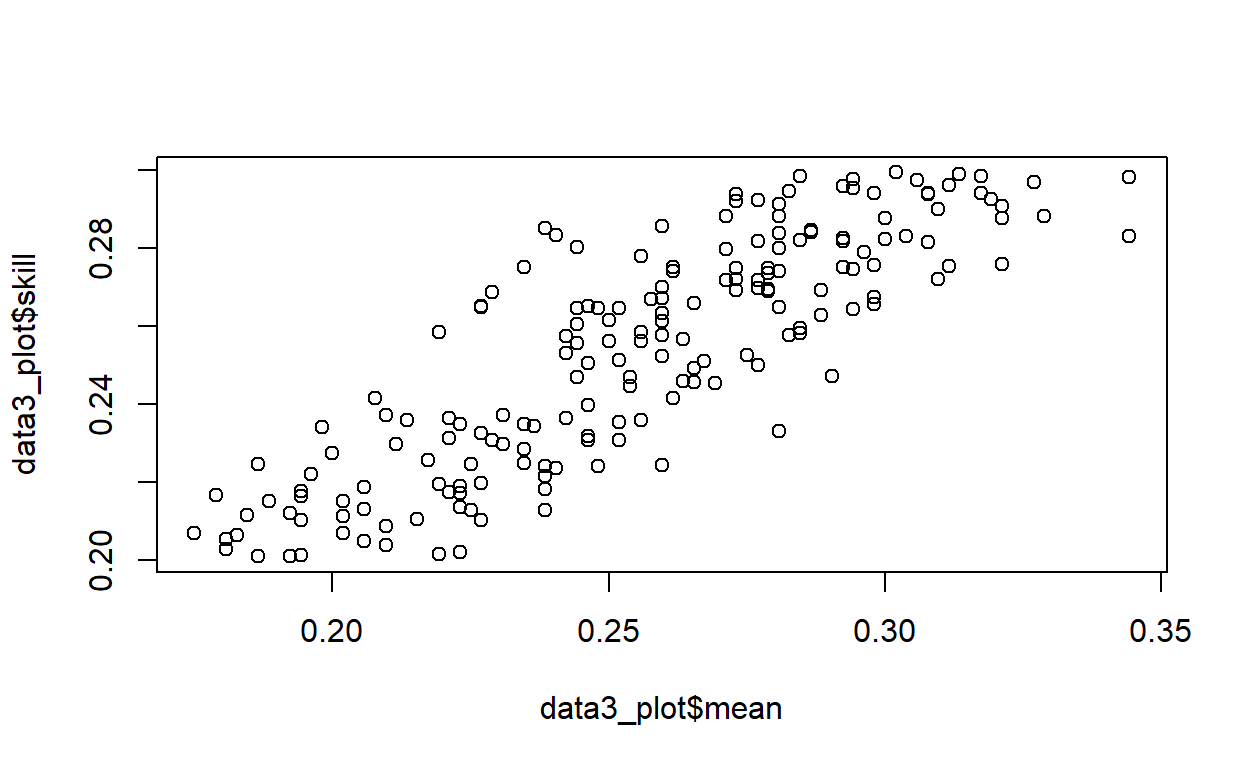
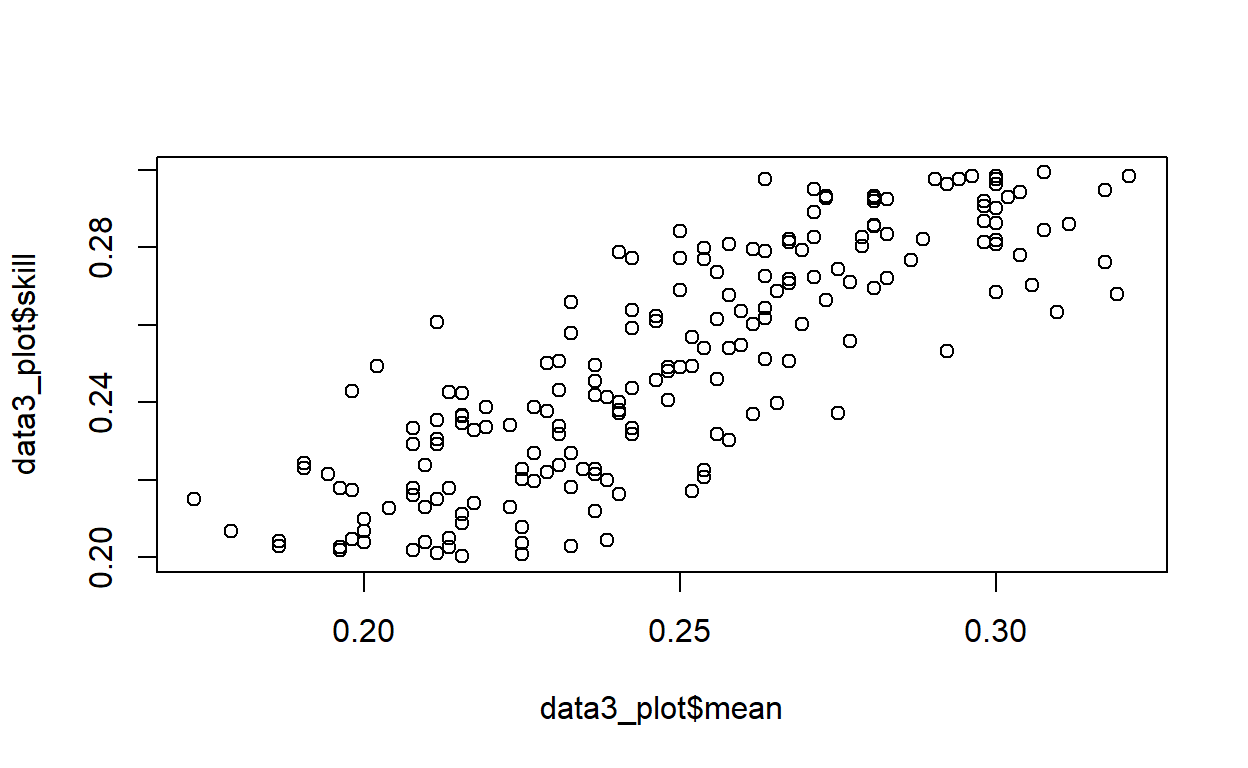
baseball

diff --git a/_posts/2023-02-05-baseball/baseball.html b/_posts/2023-02-05-baseball/baseball.html
@@ -92,8 +92,8 @@ code span.wa { color: #5e5e5e; font-style: italic; } /* Warning */
 
 
   <!--  https://schema.org/Article -->
-  <meta property="article:published" itemprop="datePublished" content="2023-02-05"/>
-  <meta property="article:created" itemprop="dateCreated" content="2023-02-05"/>
+  <meta property="article:published" itemprop="datePublished" content="2023-08-02"/>
+  <meta property="article:created" itemprop="dateCreated" content="2023-08-02"/>
   <meta name="article:author" content="Szymon Mąka"/>
 
   <!--  https://developers.facebook.com/docs/sharing/webmasters#markup -->
@@ -114,7 +114,7 @@ code span.wa { color: #5e5e5e; font-style: italic; } /* Warning */
   <!--radix_placeholder_rmarkdown_metadata-->
 
   <script type="text/json" id="radix-rmarkdown-metadata">
-  {"type":"list","attributes":{"names":{"type":"character","attributes":{},"value":["title","description","preview","author","date","output","bibliography","categories","csl"]}},"value":[{"type":"character","attributes":{},"value":["Dlaczego średnia uderzeń graczy nie przewiduje sukcesu w pojedyńczym uderzeniu?"]},{"type":"character","attributes":{},"value":["O psychologach i małych efektach\n"]},{"type":"character","attributes":{},"value":["Statystyczne_Dygresje.jpg"]},{"type":"list","attributes":{},"value":[{"type":"list","attributes":{"names":{"type":"character","attributes":{},"value":["name","url"]}},"value":[{"type":"character","attributes":{},"value":["Szymon Mąka"]},{"type":"list","attributes":{"names":{"type":"character","attributes":{},"value":["https://revan-tech.github.io/kontakt.html"]}},"value":[{"type":"NULL"}]}]}]},{"type":"character","attributes":{},"value":["02-05-2023"]},{"type":"list","attributes":{"names":{"type":"character","attributes":{},"value":["distill::distill_article"]}},"value":[{"type":"list","attributes":{"names":{"type":"character","attributes":{},"value":["self_contained","toc","includes","css"]}},"value":[{"type":"logical","attributes":{},"value":[false]},{"type":"logical","attributes":{},"value":[true]},{"type":"list","attributes":{"names":{"type":"character","attributes":{},"value":["in_header"]}},"value":[{"type":"character","attributes":{},"value":["hero-image.html"]}]},{"type":"character","attributes":{},"value":["theme.css"]}]}]},{"type":"character","attributes":{},"value":["bib.bib"]},{"type":"character","attributes":{},"value":["Statystyczne Dygresje"]},{"type":"character","attributes":{},"value":["apa.csl"]}]}
+  {"type":"list","attributes":{"names":{"type":"character","attributes":{},"value":["title","description","preview","author","date","output","bibliography","categories","csl"]}},"value":[{"type":"character","attributes":{},"value":["Dlaczego średnia uderzeń graczy nie przewiduje sukcesu w pojedyńczym uderzeniu?"]},{"type":"character","attributes":{},"value":["O psychologach i małych efektach\n"]},{"type":"character","attributes":{},"value":["Statystyczne_Dygresje.jpg"]},{"type":"list","attributes":{},"value":[{"type":"list","attributes":{"names":{"type":"character","attributes":{},"value":["name","url"]}},"value":[{"type":"character","attributes":{},"value":["Szymon Mąka"]},{"type":"list","attributes":{"names":{"type":"character","attributes":{},"value":["https://revan-tech.github.io/kontakt.html"]}},"value":[{"type":"NULL"}]}]}]},{"type":"character","attributes":{},"value":["08-02-2023"]},{"type":"list","attributes":{"names":{"type":"character","attributes":{},"value":["distill::distill_article"]}},"value":[{"type":"list","attributes":{"names":{"type":"character","attributes":{},"value":["self_contained","toc","includes","css"]}},"value":[{"type":"logical","attributes":{},"value":[false]},{"type":"logical","attributes":{},"value":[true]},{"type":"list","attributes":{"names":{"type":"character","attributes":{},"value":["in_header"]}},"value":[{"type":"character","attributes":{},"value":["hero-image.html"]}]},{"type":"character","attributes":{},"value":["theme.css"]}]}]},{"type":"character","attributes":{},"value":["bib.bib"]},{"type":"character","attributes":{},"value":["Statystyczne Dygresje"]},{"type":"character","attributes":{},"value":["apa.csl"]}]}
   </script>
   <!--/radix_placeholder_rmarkdown_metadata-->
   
@@ -1462,7 +1462,7 @@ code span.wa { color: #5e5e5e; font-style: italic; } /* Warning */
 <!--radix_placeholder_front_matter-->
 
 <script id="distill-front-matter" type="text/json">
-{"title":"Dlaczego średnia uderzeń graczy nie przewiduje sukcesu w pojedyńczym uderzeniu?","description":"O psychologach i małych efektach","authors":[{"author":"Szymon Mąka","authorURL":{"https://revan-tech.github.io/kontakt.html":{}},"affiliation":"&nbsp;","affiliationURL":"#","orcidID":""}],"publishedDate":"2023-02-05T00:00:00.000+01:00","citationText":"Mąka, 2023"}
+{"title":"Dlaczego średnia uderzeń graczy nie przewiduje sukcesu w pojedyńczym uderzeniu?","description":"O psychologach i małych efektach","authors":[{"author":"Szymon Mąka","authorURL":{"https://revan-tech.github.io/kontakt.html":{}},"affiliation":"&nbsp;","affiliationURL":"#","orcidID":""}],"publishedDate":"2023-08-02T00:00:00.000+02:00","citationText":"Mąka, 2023"}
 </script>
 
 <!--/radix_placeholder_front_matter-->
@@ -1484,7 +1484,7 @@ code span.wa { color: #5e5e5e; font-style: italic; } /* Warning */
 <div class="d-byline">
   Szymon Mąka true 
   
-<br/>02-05-2023
+<br/>08-02-2023
 </div>
 
 <div class="d-article">
@@ -1530,7 +1530,7 @@ code span.wa { color: #5e5e5e; font-style: italic; } /* Warning */
 <pre class="sourceCode r"><code class="sourceCode r"><span><span class='fu'><a href='https://rdrr.io/r/base/cat.html'>cat</a></span><span class='op'>(</span> <span class='fu'><a href='https://rdrr.io/r/base/paste.html'>paste</a></span><span class='op'>(</span><span class='st'>"Wariancja błędu wynosi"</span>,</span>
 <span><span class='fu'><a href='https://rdrr.io/r/base/Round.html'>round</a></span><span class='op'>(</span><span class='fu'><a href='https://rdrr.io/r/base/sum.html'>sum</a></span><span class='op'>(</span><span class='fu'><a href='https://rdrr.io/r/base/tapply.html'>tapply</a></span><span class='op'>(</span><span class='va'>data</span><span class='op'>$</span><span class='va'>X</span>, <span class='va'>data</span><span class='op'>$</span><span class='va'>Y</span>, <span class='va'>Var</span><span class='op'>)</span><span class='op'>*</span><span class='fu'><a href='https://rdrr.io/r/base/tapply.html'>tapply</a></span><span class='op'>(</span><span class='va'>data</span><span class='op'>$</span><span class='va'>X</span>, <span class='va'>data</span><span class='op'>$</span><span class='va'>Y</span>, <span class='va'>length</span><span class='op'>)</span><span class='op'>/</span><span class='fu'><a href='https://rdrr.io/r/base/length.html'>length</a></span><span class='op'>(</span><span class='va'>data</span><span class='op'>$</span><span class='va'>X</span><span class='op'>)</span><span class='op'>)</span>,<span class='fl'>3</span><span class='op'>)</span><span class='op'>)</span>,<span class='st'>"."</span>,sep <span class='op'>=</span> <span class='st'>""</span><span class='op'>)</span></span></code></pre>
 </div>
-<pre><code>Wariancja błędu wynosi 0.186.</code></pre>
+<pre><code>Wariancja błędu wynosi 0.187.</code></pre>
 <div class="sourceCode">
 <pre class="sourceCode r"><code class="sourceCode r"><span><span class='fu'><a href='https://rdrr.io/r/base/cat.html'>cat</a></span><span class='op'>(</span><span class='fu'><a href='https://rdrr.io/r/base/paste.html'>paste</a></span><span class='op'>(</span><span class='st'>"Wariancja przewidywania wynosi"</span>, <span class='fu'><a href='https://rdrr.io/r/base/Round.html'>round</a></span><span class='op'>(</span><span class='fu'>Var</span><span class='op'>(</span><span class='va'>data</span><span class='op'>$</span><span class='va'>X</span><span class='op'>)</span> </span>
 <span><span class='op'>-</span> <span class='fu'><a href='https://rdrr.io/r/base/sum.html'>sum</a></span><span class='op'>(</span><span class='fu'><a href='https://rdrr.io/r/base/tapply.html'>tapply</a></span><span class='op'>(</span><span class='va'>data</span><span class='op'>$</span><span class='va'>X</span>, <span class='va'>data</span><span class='op'>$</span><span class='va'>Y</span>, <span class='va'>Var</span><span class='op'>)</span><span class='op'>*</span><span class='fu'><a href='https://rdrr.io/r/base/tapply.html'>tapply</a></span><span class='op'>(</span><span class='va'>data</span><span class='op'>$</span><span class='va'>X</span>, <span class='va'>data</span><span class='op'>$</span><span class='va'>Y</span>, <span class='va'>length</span><span class='op'>)</span><span class='op'>/</span><span class='fu'><a href='https://rdrr.io/r/base/length.html'>length</a></span><span class='op'>(</span><span class='va'>data</span><span class='op'>$</span><span class='va'>X</span><span class='op'>)</span><span class='op'>)</span>,<span class='fl'>3</span><span class='op'>)</span>,<span class='st'>"."</span><span class='op'>)</span><span class='op'>)</span></span></code></pre>
@@ -1553,7 +1553,7 @@ code span.wa { color: #5e5e5e; font-style: italic; } /* Warning */
 <span><span class='op'>}</span></span>
 <span><span class='fu'><a href='https://rdrr.io/r/base/cat.html'>cat</a></span><span class='op'>(</span><span class='fu'><a href='https://rdrr.io/r/base/paste.html'>paste</a></span><span class='op'>(</span><span class='st'>"Korelacja wynosi "</span>, <span class='fu'><a href='https://rdrr.io/r/base/Round.html'>round</a></span><span class='op'>(</span><span class='fu'><a href='https://rdrr.io/r/stats/cor.html'>cor</a></span><span class='op'>(</span><span class='va'>data2</span><span class='op'>$</span><span class='va'>X</span>,<span class='va'>data2</span><span class='op'>$</span><span class='va'>Y</span><span class='op'>)</span>,<span class='fl'>3</span><span class='op'>)</span>,<span class='st'>"."</span>, sep <span class='op'>=</span> <span class='st'>""</span><span class='op'>)</span><span class='op'>)</span></span></code></pre>
 </div>
-<pre><code>Korelacja wynosi 0.42.</code></pre>
+<pre><code>Korelacja wynosi 0.421.</code></pre>
 <div class="sourceCode">
 <pre class="sourceCode r"><code class="sourceCode r"><span><span class='fu'><a href='https://rdrr.io/r/base/cat.html'>cat</a></span><span class='op'>(</span> <span class='fu'><a href='https://rdrr.io/r/base/paste.html'>paste</a></span><span class='op'>(</span><span class='st'>"Wariancja błędu wynosi"</span>,</span>
 <span><span class='fu'><a href='https://rdrr.io/r/base/Round.html'>round</a></span><span class='op'>(</span><span class='fu'><a href='https://rdrr.io/r/base/sum.html'>sum</a></span><span class='op'>(</span><span class='fu'><a href='https://rdrr.io/r/base/tapply.html'>tapply</a></span><span class='op'>(</span><span class='va'>data2</span><span class='op'>$</span><span class='va'>X</span>, <span class='va'>data2</span><span class='op'>$</span><span class='va'>Y</span>, <span class='va'>Var</span><span class='op'>)</span><span class='op'>*</span><span class='fu'><a href='https://rdrr.io/r/base/tapply.html'>tapply</a></span><span class='op'>(</span><span class='va'>data2</span><span class='op'>$</span><span class='va'>X</span>, <span class='va'>data2</span><span class='op'>$</span><span class='va'>Y</span>, <span class='va'>length</span><span class='op'>)</span><span class='op'>/</span><span class='fu'><a href='https://rdrr.io/r/base/length.html'>length</a></span><span class='op'>(</span><span class='va'>data2</span><span class='op'>$</span><span class='va'>X</span><span class='op'>)</span><span class='op'>)</span>,<span class='fl'>3</span><span class='op'>)</span><span class='op'>)</span>,<span class='st'>"."</span>,sep <span class='op'>=</span> <span class='st'>""</span><span class='op'>)</span></span></code></pre>
@@ -1582,8 +1582,8 @@ n\cdot \text{Var}(\mathbf{x}) &amp;= \sum_i (x_i - \bar{x})^2= \sum_i x_i^2 - 2x
 <p>więc</p>
 <p><span class="math display">\[\text{Var}(\mathbf{x}) \leq \bar{x}(c-\bar{x})\]</span></p>
 <p>średnia uderzeń graczy Abelsona</p>
-<p><span class="math display">\[eta^2 = \frac{Var(Y)}{Var(X)} \le \frac{0.7(0.1-0.7)}{0.1971} = 0.01065\]</span></p>
-<p>może w najlepszym wypadku wyjaśnić 1% wariancji. Widzimy ze wzoru, że zachowując wartość średniej sukcesów jako stałą, rozszerzanie przedziału, w którym znajdują się możliwe średnie graczy, będzie zwiększało procent możliwej do wyjaśnienia wariancji.</p>
+<p><span class="math display">\[eta^2 = \frac{Var(Y)}{Var(X)} \le \frac{0.07(0.1-0.07)}{0.1971} = 0.01065\]</span></p>
+<p>może w najlepszym wypadku wyjaśnić 1% wariancji. Widzimy ze wzoru, że rozszerzanie przedziału, w którym znajdują się możliwe średnie graczy, będzie zwiększało procent możliwej do wyjaśnienia wariancji.</p>
 <p>Wydaje mi się, że zdziwienie Abelsona wynikało z faktu, że spodziewał się, że procent wyjaśnionej wariancji w pojedyńczym sukcesie przez średnią gracza powinen być wysoki, ponieważ przewidujemy zachowanie na podstawie średniej miary tegoż zachowania, czyli jego średniej w dłuższym okresie (analgoicznie do neurotyzmu mającego przewidywać zachowania neurotyczne).</p>
 <p>Jednak Abelson licząc procent wyjasnionej wariancji zadał inne pytanie, mianowicie <strong>jak dobrze możemy przewidzieć sukces gracza w pojedyńczej próbie na podostawie jego średniej</strong>. Jak zauważyliśmy, nie będzie dobrze przewidywać, ponieważ zmienna Y nie różnicuje wystarczająco dobrze pomiędzy graczami względem wielkości błędu. Można to rozumieć w katagoriach niskiej rzetelności.</p>
 <p>To zjawisko generalizuje się na inne przykłady. Żeby sobie to zwizualizować zobaczmy średnie graczy w sezonie z symulacji pierwszej (średnia z 520 prób pojedyńczych odbić) naprzeciw prawdziwych średnich (prawdopodobieństw, których użyłem do wygenerowania danych, możemy je potraktować jako ich prawdziwą zdolność gry w bejsbol).</p>
@@ -1601,7 +1601,7 @@ Generalizuje się fakt, że im bardziej różne od siebie są średnie warunkowe
 <div class="sourceCode">
 <pre class="sourceCode r"><code class="sourceCode r"><span><span class='fu'><a href='https://rdrr.io/r/base/cat.html'>cat</a></span><span class='op'>(</span><span class='fu'><a href='https://rdrr.io/r/base/paste.html'>paste</a></span><span class='op'>(</span><span class='st'>"Korelacja wynosi "</span>, <span class='fu'><a href='https://rdrr.io/r/base/Round.html'>round</a></span><span class='op'>(</span><span class='fu'><a href='https://rdrr.io/r/stats/cor.html'>cor</a></span><span class='op'>(</span><span class='va'>data_plot</span><span class='op'>$</span><span class='va'>skill</span>,<span class='va'>data_plot</span><span class='op'>$</span><span class='va'>mean</span><span class='op'>)</span>,<span class='fl'>3</span><span class='op'>)</span>,<span class='st'>"."</span>, sep <span class='op'>=</span> <span class='st'>""</span><span class='op'>)</span><span class='op'>)</span></span></code></pre>
 </div>
-<pre><code>Korelacja wynosi 0.816.</code></pre>
+<pre><code>Korelacja wynosi 0.84.</code></pre>
 </div>
 <p>Teraz to samo z symulacją 2.</p>
 <div class="layout-chunk" data-layout="l-body">
@@ -1627,7 +1627,7 @@ Generalizuje się fakt, że im bardziej różne od siebie są średnie warunkowe
 <div class="sourceCode">
 <pre class="sourceCode r"><code class="sourceCode r"><span><span class='fu'><a href='https://rdrr.io/r/base/cat.html'>cat</a></span><span class='op'>(</span><span class='fu'><a href='https://rdrr.io/r/base/paste.html'>paste</a></span><span class='op'>(</span><span class='st'>"Korelacja wynosi "</span>, <span class='fu'><a href='https://rdrr.io/r/base/Round.html'>round</a></span><span class='op'>(</span><span class='fu'><a href='https://rdrr.io/r/stats/cor.html'>cor</a></span><span class='op'>(</span><span class='va'>data3_plot</span><span class='op'>$</span><span class='va'>skill</span>,<span class='va'>data3_plot</span><span class='op'>$</span><span class='va'>mean</span><span class='op'>)</span>,<span class='fl'>3</span><span class='op'>)</span>,<span class='st'>"."</span>, sep <span class='op'>=</span> <span class='st'>""</span><span class='op'>)</span><span class='op'>)</span></span></code></pre>
 </div>
-<pre><code>Korelacja wynosi 0.849.</code></pre>
+<pre><code>Korelacja wynosi 0.834.</code></pre>
 </div>
 <p>Widzimy, że ten wykres przypomina pierwszy wykres. Zawęziliśmy zakres zmiennej, więc błąd wydaje się relatywnie większy.</p>
 <p>Co natomiast możemy powiedzieć o małych wielkościach efektu w psychologii? Mały efekt, to po prostu mały efekt. Nie kumuluje się w czasie. Ale to nie znaczy, że jest nieistony. Jeśli badamy zachowanie człowieka, byłoby wręcz dziwnie, jeśli efekt jednej zmiennej byłby duży, zwłaszcza w przypadku złożonych zachowań.</p>

diff --git a/posts/2023-02-05-baseball/index.html b/posts/2023-02-05-baseball/index.html
@@ -92,8 +92,8 @@ code span.wa { color: #5e5e5e; font-style: italic; } /* Warning */
 
 
 <!--  https://schema.org/Article -->
-<meta property="article:published" itemprop="datePublished" content="2023-02-05"/>
-<meta property="article:created" itemprop="dateCreated" content="2023-02-05"/>
+<meta property="article:published" itemprop="datePublished" content="2023-08-02"/>
+<meta property="article:created" itemprop="dateCreated" content="2023-08-02"/>
 <meta name="article:author" content="Szymon Mąka"/>
 
 <!--  https://developers.facebook.com/docs/sharing/webmasters#markup -->
@@ -115,7 +115,7 @@ code span.wa { color: #5e5e5e; font-style: italic; } /* Warning */
   <!--radix_placeholder_rmarkdown_metadata-->
 
 <script type="text/json" id="radix-rmarkdown-metadata">
-{"type":"list","attributes":{"names":{"type":"character","attributes":{},"value":["title","description","preview","author","date","output","bibliography","categories","csl"]}},"value":[{"type":"character","attributes":{},"value":["Dlaczego średnia uderzeń graczy nie przewiduje sukcesu w pojedyńczym uderzeniu?"]},{"type":"character","attributes":{},"value":["O psychologach i małych efektach"]},{"type":"character","attributes":{},"value":["Statystyczne_Dygresje.jpg"]},{"type":"list","attributes":{},"value":[{"type":"list","attributes":{"names":{"type":"character","attributes":{},"value":["name","url"]}},"value":[{"type":"character","attributes":{},"value":["Szymon Mąka"]},{"type":"list","attributes":{"names":{"type":"character","attributes":{},"value":["https://revan-tech.github.io/kontakt.html"]}},"value":[{"type":"NULL"}]}]}]},{"type":"character","attributes":{},"value":["02-05-2023"]},{"type":"list","attributes":{"names":{"type":"character","attributes":{},"value":["distill::distill_article"]}},"value":[{"type":"list","attributes":{"names":{"type":"character","attributes":{},"value":["self_contained","toc","includes","css"]}},"value":[{"type":"logical","attributes":{},"value":[false]},{"type":"logical","attributes":{},"value":[true]},{"type":"list","attributes":{"names":{"type":"character","attributes":{},"value":["in_header"]}},"value":[{"type":"character","attributes":{},"value":["hero-image.html"]}]},{"type":"character","attributes":{},"value":["theme.css"]}]}]},{"type":"character","attributes":{},"value":["bib.bib"]},{"type":"character","attributes":{},"value":["Statystyczne Dygresje"]},{"type":"character","attributes":{},"value":["apa.csl"]}]}
+{"type":"list","attributes":{"names":{"type":"character","attributes":{},"value":["title","description","preview","author","date","output","bibliography","categories","csl"]}},"value":[{"type":"character","attributes":{},"value":["Dlaczego średnia uderzeń graczy nie przewiduje sukcesu w pojedyńczym uderzeniu?"]},{"type":"character","attributes":{},"value":["O psychologach i małych efektach"]},{"type":"character","attributes":{},"value":["Statystyczne_Dygresje.jpg"]},{"type":"list","attributes":{},"value":[{"type":"list","attributes":{"names":{"type":"character","attributes":{},"value":["name","url"]}},"value":[{"type":"character","attributes":{},"value":["Szymon Mąka"]},{"type":"list","attributes":{"names":{"type":"character","attributes":{},"value":["https://revan-tech.github.io/kontakt.html"]}},"value":[{"type":"NULL"}]}]}]},{"type":"character","attributes":{},"value":["08-02-2023"]},{"type":"list","attributes":{"names":{"type":"character","attributes":{},"value":["distill::distill_article"]}},"value":[{"type":"list","attributes":{"names":{"type":"character","attributes":{},"value":["self_contained","toc","includes","css"]}},"value":[{"type":"logical","attributes":{},"value":[false]},{"type":"logical","attributes":{},"value":[true]},{"type":"list","attributes":{"names":{"type":"character","attributes":{},"value":["in_header"]}},"value":[{"type":"character","attributes":{},"value":["hero-image.html"]}]},{"type":"character","attributes":{},"value":["theme.css"]}]}]},{"type":"character","attributes":{},"value":["bib.bib"]},{"type":"character","attributes":{},"value":["Statystyczne Dygresje"]},{"type":"character","attributes":{},"value":["apa.csl"]}]}
 </script>
 <!--/radix_placeholder_rmarkdown_metadata-->
   
@@ -2070,7 +2070,7 @@ document.addEventListener('DOMContentLoaded', function() {
 <!--radix_placeholder_front_matter-->
 
 <script id="distill-front-matter" type="text/json">
-{"title":"Dlaczego średnia uderzeń graczy nie przewiduje sukcesu w pojedyńczym uderzeniu?","description":"O psychologach i małych efektach","authors":[{"author":"Szymon Mąka","authorURL":{"https://revan-tech.github.io/kontakt.html":{}},"affiliation":"&nbsp;","affiliationURL":"#","orcidID":""}],"publishedDate":"2023-02-05T00:00:00.000+01:00","citationText":"Mąka, 2023"}
+{"title":"Dlaczego średnia uderzeń graczy nie przewiduje sukcesu w pojedyńczym uderzeniu?","description":"O psychologach i małych efektach","authors":[{"author":"Szymon Mąka","authorURL":{"https://revan-tech.github.io/kontakt.html":{}},"affiliation":"&nbsp;","affiliationURL":"#","orcidID":""}],"publishedDate":"2023-08-02T00:00:00.000+02:00","citationText":"Mąka, 2023"}
 </script>
 
 <!--/radix_placeholder_front_matter-->
@@ -2107,7 +2107,7 @@ document.addEventListener('DOMContentLoaded', function() {
 <div class="d-byline">
   Szymon Mąka true 
   
-<br/>02-05-2023
+<br/>08-02-2023
 </div>
 
 <div class="d-article">
@@ -2153,7 +2153,7 @@ document.addEventListener('DOMContentLoaded', function() {
 <pre class="sourceCode r"><code class="sourceCode r"><span><span class='fu'><a href='https://rdrr.io/r/base/cat.html'>cat</a></span><span class='op'>(</span> <span class='fu'><a href='https://rdrr.io/r/base/paste.html'>paste</a></span><span class='op'>(</span><span class='st'>"Wariancja błędu wynosi"</span>,</span>
 <span><span class='fu'><a href='https://rdrr.io/r/base/Round.html'>round</a></span><span class='op'>(</span><span class='fu'><a href='https://rdrr.io/r/base/sum.html'>sum</a></span><span class='op'>(</span><span class='fu'><a href='https://rdrr.io/r/base/tapply.html'>tapply</a></span><span class='op'>(</span><span class='va'>data</span><span class='op'>$</span><span class='va'>X</span>, <span class='va'>data</span><span class='op'>$</span><span class='va'>Y</span>, <span class='va'>Var</span><span class='op'>)</span><span class='op'>*</span><span class='fu'><a href='https://rdrr.io/r/base/tapply.html'>tapply</a></span><span class='op'>(</span><span class='va'>data</span><span class='op'>$</span><span class='va'>X</span>, <span class='va'>data</span><span class='op'>$</span><span class='va'>Y</span>, <span class='va'>length</span><span class='op'>)</span><span class='op'>/</span><span class='fu'><a href='https://rdrr.io/r/base/length.html'>length</a></span><span class='op'>(</span><span class='va'>data</span><span class='op'>$</span><span class='va'>X</span><span class='op'>)</span><span class='op'>)</span>,<span class='fl'>3</span><span class='op'>)</span><span class='op'>)</span>,<span class='st'>"."</span>,sep <span class='op'>=</span> <span class='st'>""</span><span class='op'>)</span></span></code></pre>
 </div>
-<pre><code>Wariancja błędu wynosi 0.186.</code></pre>
+<pre><code>Wariancja błędu wynosi 0.187.</code></pre>
 <div class="sourceCode">
 <pre class="sourceCode r"><code class="sourceCode r"><span><span class='fu'><a href='https://rdrr.io/r/base/cat.html'>cat</a></span><span class='op'>(</span><span class='fu'><a href='https://rdrr.io/r/base/paste.html'>paste</a></span><span class='op'>(</span><span class='st'>"Wariancja przewidywania wynosi"</span>, <span class='fu'><a href='https://rdrr.io/r/base/Round.html'>round</a></span><span class='op'>(</span><span class='fu'>Var</span><span class='op'>(</span><span class='va'>data</span><span class='op'>$</span><span class='va'>X</span><span class='op'>)</span> </span>
 <span><span class='op'>-</span> <span class='fu'><a href='https://rdrr.io/r/base/sum.html'>sum</a></span><span class='op'>(</span><span class='fu'><a href='https://rdrr.io/r/base/tapply.html'>tapply</a></span><span class='op'>(</span><span class='va'>data</span><span class='op'>$</span><span class='va'>X</span>, <span class='va'>data</span><span class='op'>$</span><span class='va'>Y</span>, <span class='va'>Var</span><span class='op'>)</span><span class='op'>*</span><span class='fu'><a href='https://rdrr.io/r/base/tapply.html'>tapply</a></span><span class='op'>(</span><span class='va'>data</span><span class='op'>$</span><span class='va'>X</span>, <span class='va'>data</span><span class='op'>$</span><span class='va'>Y</span>, <span class='va'>length</span><span class='op'>)</span><span class='op'>/</span><span class='fu'><a href='https://rdrr.io/r/base/length.html'>length</a></span><span class='op'>(</span><span class='va'>data</span><span class='op'>$</span><span class='va'>X</span><span class='op'>)</span><span class='op'>)</span>,<span class='fl'>3</span><span class='op'>)</span>,<span class='st'>"."</span><span class='op'>)</span><span class='op'>)</span></span></code></pre>
@@ -2176,7 +2176,7 @@ document.addEventListener('DOMContentLoaded', function() {
 <span><span class='op'>}</span></span>
 <span><span class='fu'><a href='https://rdrr.io/r/base/cat.html'>cat</a></span><span class='op'>(</span><span class='fu'><a href='https://rdrr.io/r/base/paste.html'>paste</a></span><span class='op'>(</span><span class='st'>"Korelacja wynosi "</span>, <span class='fu'><a href='https://rdrr.io/r/base/Round.html'>round</a></span><span class='op'>(</span><span class='fu'><a href='https://rdrr.io/r/stats/cor.html'>cor</a></span><span class='op'>(</span><span class='va'>data2</span><span class='op'>$</span><span class='va'>X</span>,<span class='va'>data2</span><span class='op'>$</span><span class='va'>Y</span><span class='op'>)</span>,<span class='fl'>3</span><span class='op'>)</span>,<span class='st'>"."</span>, sep <span class='op'>=</span> <span class='st'>""</span><span class='op'>)</span><span class='op'>)</span></span></code></pre>
 </div>
-<pre><code>Korelacja wynosi 0.42.</code></pre>
+<pre><code>Korelacja wynosi 0.421.</code></pre>
 <div class="sourceCode">
 <pre class="sourceCode r"><code class="sourceCode r"><span><span class='fu'><a href='https://rdrr.io/r/base/cat.html'>cat</a></span><span class='op'>(</span> <span class='fu'><a href='https://rdrr.io/r/base/paste.html'>paste</a></span><span class='op'>(</span><span class='st'>"Wariancja błędu wynosi"</span>,</span>
 <span><span class='fu'><a href='https://rdrr.io/r/base/Round.html'>round</a></span><span class='op'>(</span><span class='fu'><a href='https://rdrr.io/r/base/sum.html'>sum</a></span><span class='op'>(</span><span class='fu'><a href='https://rdrr.io/r/base/tapply.html'>tapply</a></span><span class='op'>(</span><span class='va'>data2</span><span class='op'>$</span><span class='va'>X</span>, <span class='va'>data2</span><span class='op'>$</span><span class='va'>Y</span>, <span class='va'>Var</span><span class='op'>)</span><span class='op'>*</span><span class='fu'><a href='https://rdrr.io/r/base/tapply.html'>tapply</a></span><span class='op'>(</span><span class='va'>data2</span><span class='op'>$</span><span class='va'>X</span>, <span class='va'>data2</span><span class='op'>$</span><span class='va'>Y</span>, <span class='va'>length</span><span class='op'>)</span><span class='op'>/</span><span class='fu'><a href='https://rdrr.io/r/base/length.html'>length</a></span><span class='op'>(</span><span class='va'>data2</span><span class='op'>$</span><span class='va'>X</span><span class='op'>)</span><span class='op'>)</span>,<span class='fl'>3</span><span class='op'>)</span><span class='op'>)</span>,<span class='st'>"."</span>,sep <span class='op'>=</span> <span class='st'>""</span><span class='op'>)</span></span></code></pre>
@@ -2205,8 +2205,8 @@ n\cdot \text{Var}(\mathbf{x}) &amp;= \sum_i (x_i - \bar{x})^2= \sum_i x_i^2 - 2x
 <p>więc</p>
 <p><span class="math display">\[\text{Var}(\mathbf{x}) \leq \bar{x}(c-\bar{x})\]</span></p>
 <p>średnia uderzeń graczy Abelsona</p>
-<p><span class="math display">\[eta^2 = \frac{Var(Y)}{Var(X)} \le \frac{0.7(0.1-0.7)}{0.1971} = 0.01065\]</span></p>
-<p>może w najlepszym wypadku wyjaśnić 1% wariancji. Widzimy ze wzoru, że zachowując wartość średniej sukcesów jako stałą, rozszerzanie przedziału, w którym znajdują się możliwe średnie graczy, będzie zwiększało procent możliwej do wyjaśnienia wariancji.</p>
+<p><span class="math display">\[eta^2 = \frac{Var(Y)}{Var(X)} \le \frac{0.07(0.1-0.07)}{0.1971} = 0.01065\]</span></p>
+<p>może w najlepszym wypadku wyjaśnić 1% wariancji. Widzimy ze wzoru, że rozszerzanie przedziału, w którym znajdują się możliwe średnie graczy, będzie zwiększało procent możliwej do wyjaśnienia wariancji.</p>
 <p>Wydaje mi się, że zdziwienie Abelsona wynikało z faktu, że spodziewał się, że procent wyjaśnionej wariancji w pojedyńczym sukcesie przez średnią gracza powinen być wysoki, ponieważ przewidujemy zachowanie na podstawie średniej miary tegoż zachowania, czyli jego średniej w dłuższym okresie (analgoicznie do neurotyzmu mającego przewidywać zachowania neurotyczne).</p>
 <p>Jednak Abelson licząc procent wyjasnionej wariancji zadał inne pytanie, mianowicie <strong>jak dobrze możemy przewidzieć sukces gracza w pojedyńczej próbie na podostawie jego średniej</strong>. Jak zauważyliśmy, nie będzie dobrze przewidywać, ponieważ zmienna Y nie różnicuje wystarczająco dobrze pomiędzy graczami względem wielkości błędu. Można to rozumieć w katagoriach niskiej rzetelności.</p>
 <p>To zjawisko generalizuje się na inne przykłady. Żeby sobie to zwizualizować zobaczmy średnie graczy w sezonie z symulacji pierwszej (średnia z 520 prób pojedyńczych odbić) naprzeciw prawdziwych średnich (prawdopodobieństw, których użyłem do wygenerowania danych, możemy je potraktować jako ich prawdziwą zdolność gry w bejsbol).</p>
@@ -2224,7 +2224,7 @@ Generalizuje się fakt, że im bardziej różne od siebie są średnie warunkowe
 <div class="sourceCode">
 <pre class="sourceCode r"><code class="sourceCode r"><span><span class='fu'><a href='https://rdrr.io/r/base/cat.html'>cat</a></span><span class='op'>(</span><span class='fu'><a href='https://rdrr.io/r/base/paste.html'>paste</a></span><span class='op'>(</span><span class='st'>"Korelacja wynosi "</span>, <span class='fu'><a href='https://rdrr.io/r/base/Round.html'>round</a></span><span class='op'>(</span><span class='fu'><a href='https://rdrr.io/r/stats/cor.html'>cor</a></span><span class='op'>(</span><span class='va'>data_plot</span><span class='op'>$</span><span class='va'>skill</span>,<span class='va'>data_plot</span><span class='op'>$</span><span class='va'>mean</span><span class='op'>)</span>,<span class='fl'>3</span><span class='op'>)</span>,<span class='st'>"."</span>, sep <span class='op'>=</span> <span class='st'>""</span><span class='op'>)</span><span class='op'>)</span></span></code></pre>
 </div>
-<pre><code>Korelacja wynosi 0.816.</code></pre>
+<pre><code>Korelacja wynosi 0.84.</code></pre>
 </div>
 <p>Teraz to samo z symulacją 2.</p>
 <div class="layout-chunk" data-layout="l-body">
@@ -2250,7 +2250,7 @@ Generalizuje się fakt, że im bardziej różne od siebie są średnie warunkowe
 <div class="sourceCode">
 <pre class="sourceCode r"><code class="sourceCode r"><span><span class='fu'><a href='https://rdrr.io/r/base/cat.html'>cat</a></span><span class='op'>(</span><span class='fu'><a href='https://rdrr.io/r/base/paste.html'>paste</a></span><span class='op'>(</span><span class='st'>"Korelacja wynosi "</span>, <span class='fu'><a href='https://rdrr.io/r/base/Round.html'>round</a></span><span class='op'>(</span><span class='fu'><a href='https://rdrr.io/r/stats/cor.html'>cor</a></span><span class='op'>(</span><span class='va'>data3_plot</span><span class='op'>$</span><span class='va'>skill</span>,<span class='va'>data3_plot</span><span class='op'>$</span><span class='va'>mean</span><span class='op'>)</span>,<span class='fl'>3</span><span class='op'>)</span>,<span class='st'>"."</span>, sep <span class='op'>=</span> <span class='st'>""</span><span class='op'>)</span><span class='op'>)</span></span></code></pre>
 </div>
-<pre><code>Korelacja wynosi 0.849.</code></pre>
+<pre><code>Korelacja wynosi 0.834.</code></pre>
 </div>
 <p>Widzimy, że ten wykres przypomina pierwszy wykres. Zawęziliśmy zakres zmiennej, więc błąd wydaje się relatywnie większy.</p>
 <p>Co natomiast możemy powiedzieć o małych wielkościach efektu w psychologii? Mały efekt, to po prostu mały efekt. Nie kumuluje się w czasie. Ale to nie znaczy, że jest nieistony. Jeśli badamy zachowanie człowieka, byłoby wręcz dziwnie, jeśli efekt jednej zmiennej byłby duży, zwłaszcza w przypadku złożonych zachowań.</p>
